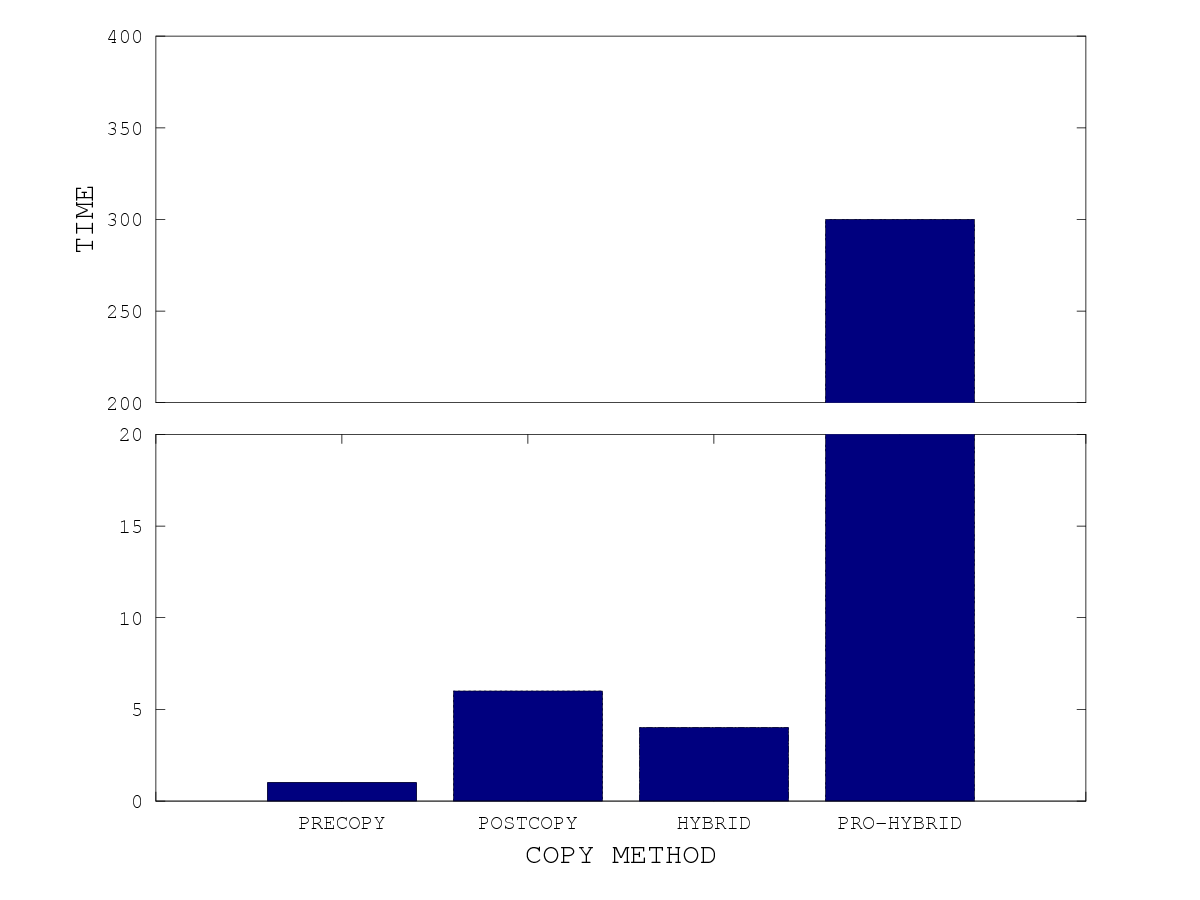
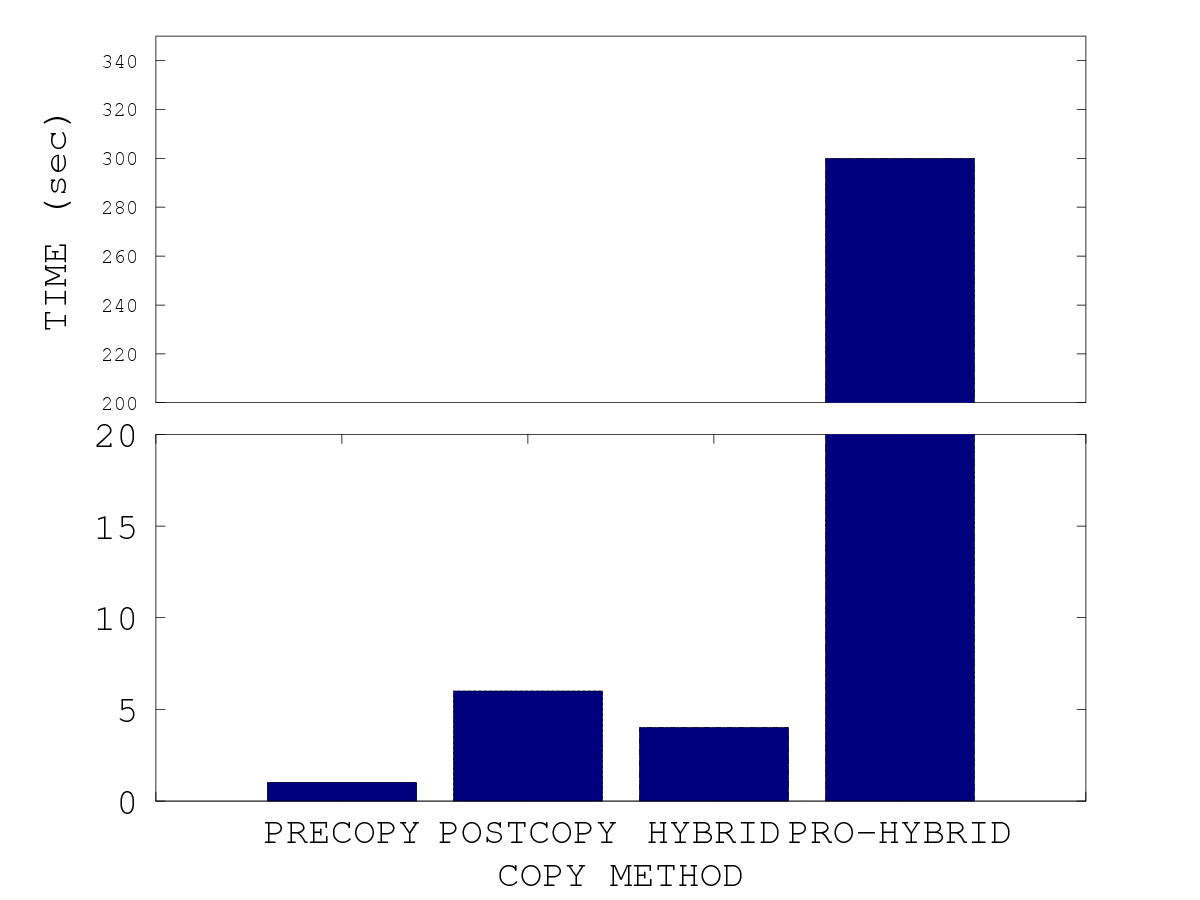
break_axis.m

diff --git a/break_axis.m b/break_axis.m
@@ -1,11 +1,12 @@
 a=[1 6 4 300];
 x = {'', 'PRECOPY', 'POSTCOPY', 'HYBRID', 'PRO-HYBRID', ''};
 
-fontsize = 14;
+fontsize = 18;
 
 ylim1=[0 20];
 %ylim2=[100 300];
-ylim2=[200 400];
+%ylim2=[200 400];
+ylim2=[200 350];
 xlim=[0 length(a)+1];
 
 figure;
@@ -21,7 +22,7 @@ a1=axes('position',[p0(1) p0(2) p0(3) p0(4)/2]);
 %barh(a);
 bar(a);
 %set(a1,'ylim',ylim1);
-set(a1,'ylim',ylim1, 'XTickLabel', x);
+set(a1,'ylim',ylim1, 'XTickLabel', x, 'FontSize', fontsize);
 xlabel('COPY METHOD', 'FontSize', fontsize);
 %ylabel('TIME', 'FontSize', fontsize);
 
@@ -40,7 +41,7 @@ set(a2,'ylim',ylim2);
 %set(a2,'xlim',xlim,'ylim',ylim2);
 set(a2,'xtick',[]);
 %set(a2,'xcolor',get(a2,'color'));
-ylabel('TIME', 'FontSize', fontsize);
+ylabel('TIME (sec)', 'FontSize', fontsize);
 %box off
 
 %%%%%%%%%%%%%%%% plotting %%%%%%%%%%%%%%%%%%%%%
